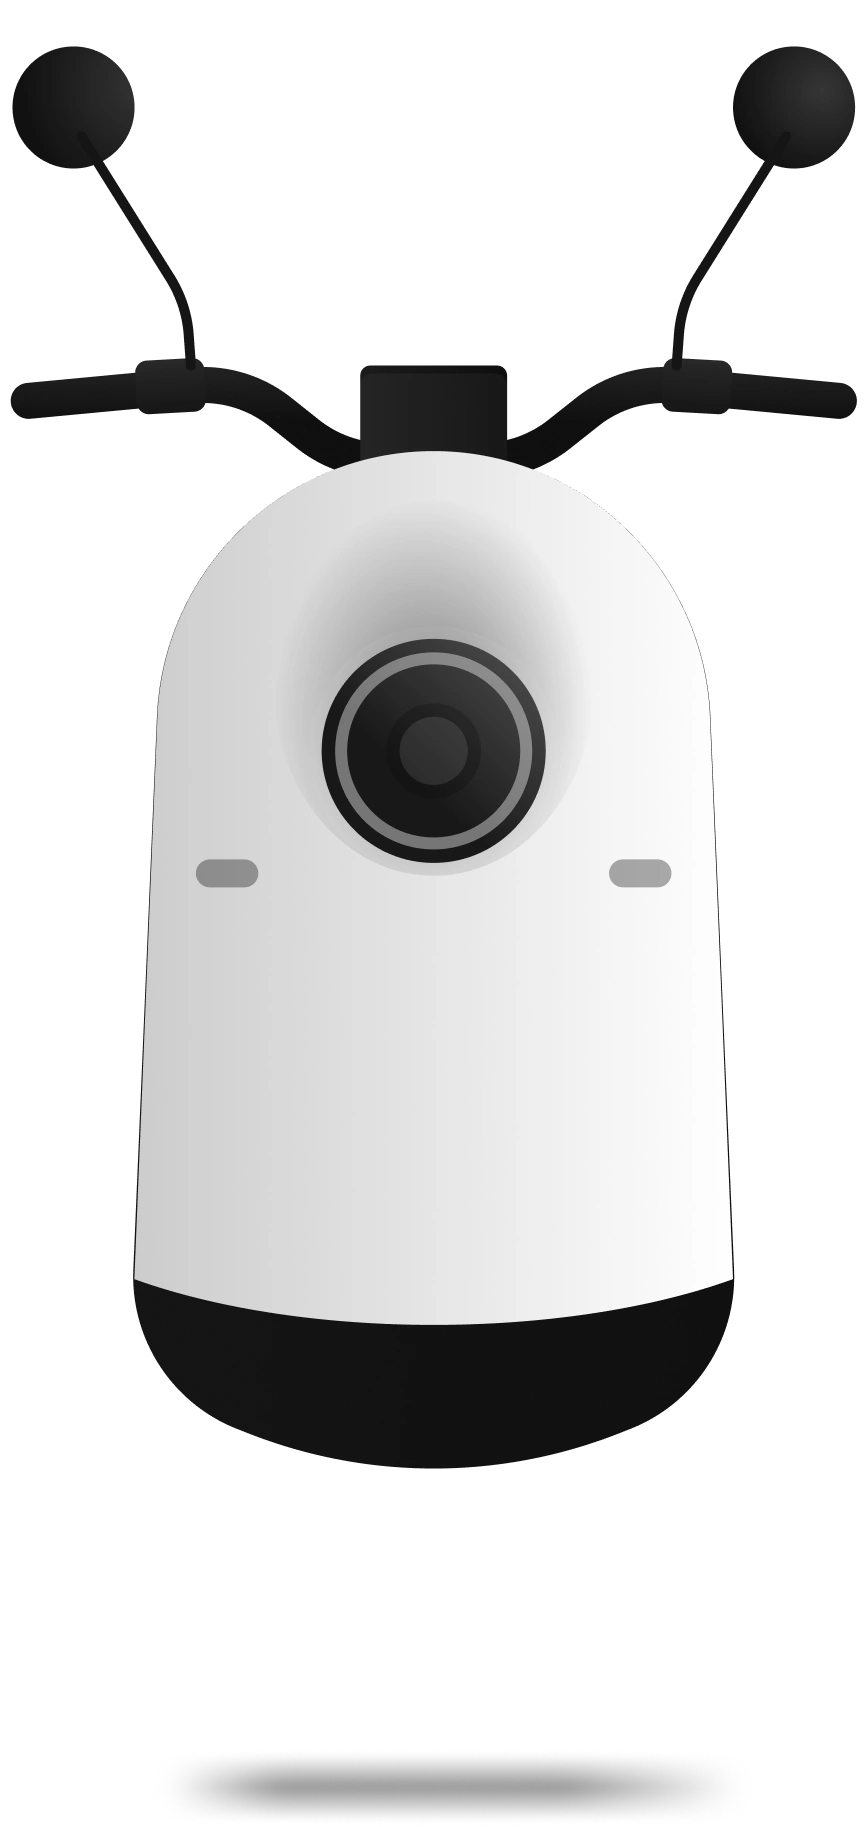
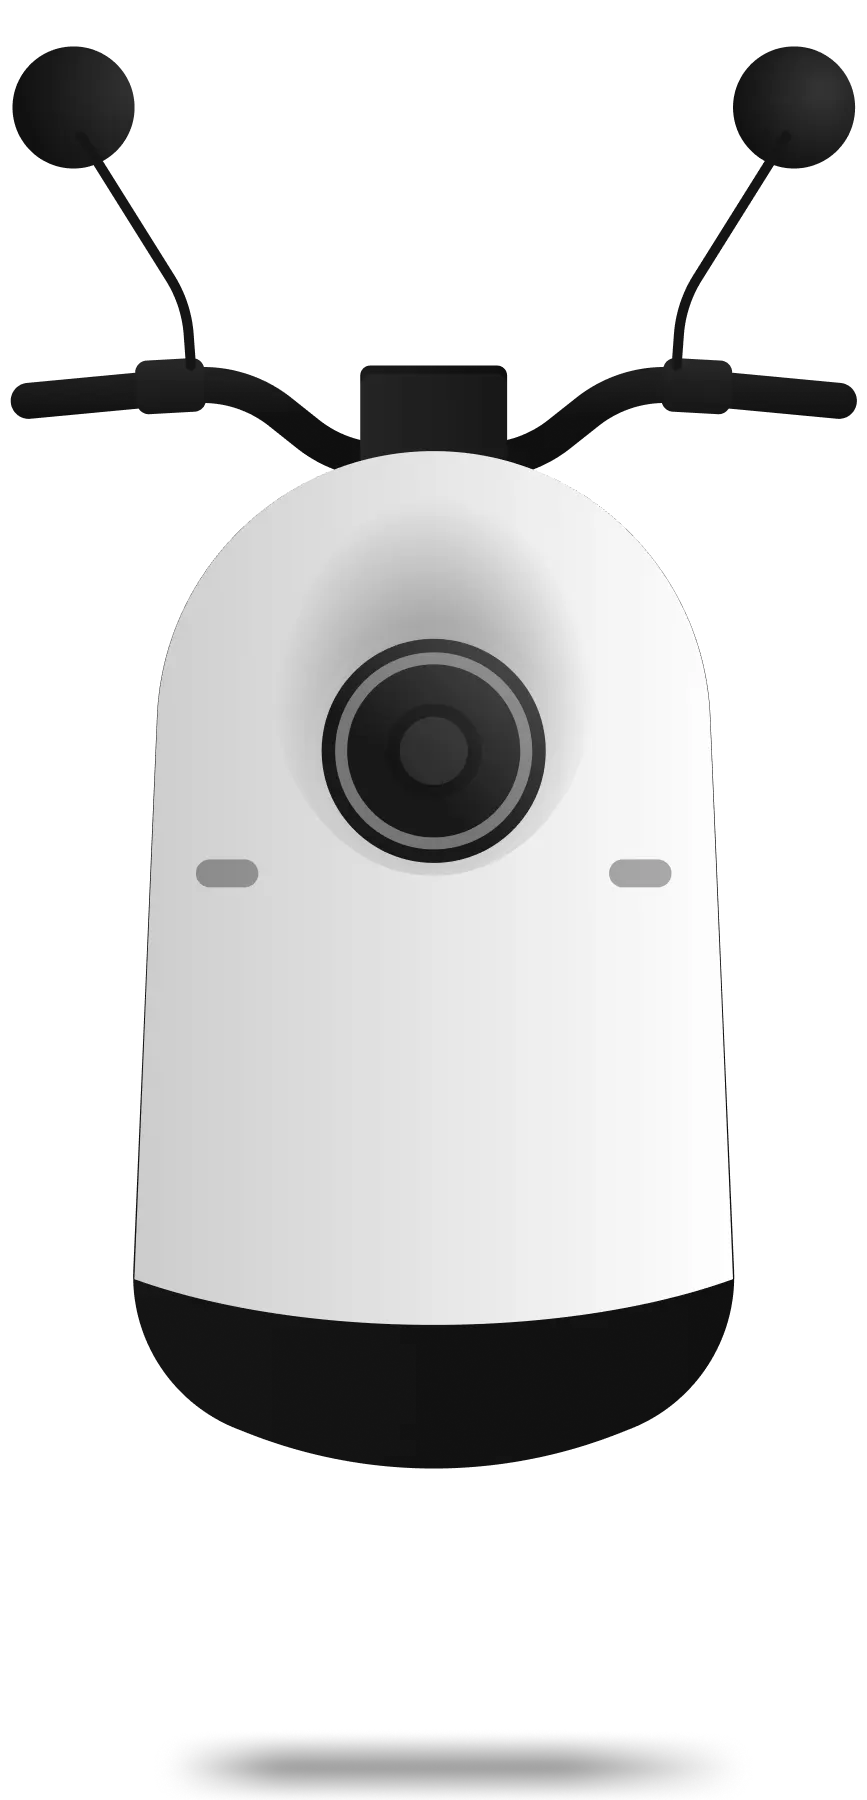
Adding seasonal effect for december

diff --git a/lib/stats/settings_section.dart b/lib/stats/settings_section.dart
@@ -28,6 +28,7 @@ class _SettingsSectionState extends State<SettingsSection> {
   final log = Logger('SettingsSection');
   bool biometrics = false;
   bool autoUnlock = false;
+  bool seasonal = true;
   ScooterKeylessDistance autoUnlockDistance = ScooterKeylessDistance.regular;
   bool openSeatOnUnlock = false;
   bool hazardLocking = false;
@@ -44,6 +45,7 @@ class _SettingsSectionState extends State<SettingsSection> {
       openSeatOnUnlock = widget.service.openSeatOnUnlock;
       hazardLocking = widget.service.hazardLocking;
       osmConsent = prefs.getBool("osmConsent") ?? true;
+      seasonal = prefs.getBool("seasonal") ?? true;
     });
   }
 
@@ -53,22 +55,10 @@ class _SettingsSectionState extends State<SettingsSection> {
     getInitialSettings();
   }
 
-  @override
-  Widget build(BuildContext context) {
-    return ListView.separated(
-      padding: const EdgeInsets.symmetric(vertical: 16),
-      shrinkWrap: true,
-      itemCount: (autoUnlock ? 16 : 15),
-      separatorBuilder: (context, index) => Divider(
-        indent: 16,
-        endIndent: 16,
-        height: 24,
-        color: Theme.of(context).colorScheme.onSurface.withOpacity(0.1),
-      ),
-      itemBuilder: (context, index) => [
+  List<Widget> settingsItems() => [
         Header(
             FlutterI18n.translate(context, "stats_settings_section_scooter")),
-        SwitchListTile(
+        SwitchListTile.adaptive(
           secondary: const Icon(Icons.key_outlined),
           title: Text(FlutterI18n.translate(context, "settings_auto_unlock")),
           subtitle: Text(FlutterI18n.translate(
@@ -105,7 +95,7 @@ class _SettingsSectionState extends State<SettingsSection> {
               },
             ),
           ),
-        SwitchListTile(
+        SwitchListTile.adaptive(
           secondary: const Icon(Icons.work_outline),
           title: Text(
               FlutterI18n.translate(context, "settings_open_seat_on_unlock")),
@@ -119,7 +109,7 @@ class _SettingsSectionState extends State<SettingsSection> {
             });
           },
         ),
-        SwitchListTile(
+        SwitchListTile.adaptive(
           secondary: const Icon(Icons.code_rounded),
           title:
               Text(FlutterI18n.translate(context, "settings_hazard_locking")),
@@ -139,7 +129,7 @@ class _SettingsSectionState extends State<SettingsSection> {
             builder: (context, biometricsOptionsSnap) {
               if (biometricsOptionsSnap.hasData &&
                   biometricsOptionsSnap.data!.isNotEmpty) {
-                return SwitchListTile(
+                return SwitchListTile.adaptive(
                   secondary: const Icon(Icons.lock_outlined),
                   title: Text(
                       FlutterI18n.translate(context, "settings_biometrics")),
@@ -254,7 +244,7 @@ class _SettingsSectionState extends State<SettingsSection> {
             },
           ),
         ),
-        SwitchListTile(
+        SwitchListTile.adaptive(
           secondary: const Icon(Icons.pin_drop_outlined),
           title: Text(FlutterI18n.translate(context, "settings_osm_consent")),
           subtitle: Text(FlutterI18n.translate(
@@ -268,6 +258,21 @@ class _SettingsSectionState extends State<SettingsSection> {
             });
           },
         ),
+        if (DateTime.now().month == 11 ||
+            DateTime.now().month == 12) // All seasonal months
+          SwitchListTile.adaptive(
+              secondary: const Icon(Icons.star),
+              title: Text(FlutterI18n.translate(context, "settings_seasonal")),
+              subtitle:
+                  Text(FlutterI18n.translate(context, "settings_color_info")),
+              value: seasonal,
+              onChanged: (value) async {
+                SharedPreferences prefs = await SharedPreferences.getInstance();
+                prefs.setBool("seasonal", value);
+                setState(() {
+                  seasonal = value;
+                });
+              }),
         Header(FlutterI18n.translate(context, "stats_settings_section_about")),
         ListTile(
           leading: const Icon(Icons.help_outline),
@@ -329,7 +334,21 @@ class _SettingsSectionState extends State<SettingsSection> {
                 },
               );
             }),
-      ][index],
+      ];
+
+  @override
+  Widget build(BuildContext context) {
+    return ListView.separated(
+      padding: const EdgeInsets.symmetric(vertical: 16),
+      shrinkWrap: true,
+      itemCount: (autoUnlock ? 16 : 15),
+      separatorBuilder: (context, index) => Divider(
+        indent: 16,
+        endIndent: 16,
+        height: 24,
+        color: Theme.of(context).colorScheme.onSurface.withOpacity(0.1),
+      ),
+      itemBuilder: (context, index) => settingsItems()[index],
     );
   }
 }

diff --git a/lib/helper_widgets.dart/snowfall.dart b/lib/helper_widgets.dart/snowfall.dart
@@ -1,0 +1,111 @@
+import 'package:flutter/material.dart';
+import 'dart:math';
+
+class SnowfallBackground extends StatefulWidget {
+  final Color backgroundColor;
+  final Color snowflakeColor;
+
+  const SnowfallBackground(
+      {super.key, required this.backgroundColor, required this.snowflakeColor});
+
+  @override
+  SnowfallBackgroundState createState() => SnowfallBackgroundState();
+}
+
+class SnowfallBackgroundState extends State<SnowfallBackground>
+    with SingleTickerProviderStateMixin {
+  late AnimationController _controller;
+  List<Snowflake>? _snowflakes; // Make _snowflakes nullable.
+  final int _snowflakeCount = 100;
+
+  @override
+  void initState() {
+    super.initState();
+    _controller =
+        AnimationController(vsync: this, duration: const Duration(seconds: 20))
+          ..repeat();
+
+    _controller.addListener(() {
+      setState(() {
+        _snowflakes?.forEach((flake) => flake.updatePosition());
+      });
+    });
+  }
+
+  void _initializeSnowflakes(Size size) {
+    _snowflakes = List.generate(
+      _snowflakeCount,
+      (_) => Snowflake(size.width, size.height),
+    );
+  }
+
+  @override
+  void dispose() {
+    _controller.dispose();
+    super.dispose();
+  }
+
+  @override
+  Widget build(BuildContext context) {
+    // Initialize snowflakes if they haven't been created yet.
+    if (_snowflakes == null) {
+      _initializeSnowflakes(MediaQuery.of(context).size);
+    }
+
+    return Container(
+      color: widget.backgroundColor,
+      child: CustomPaint(
+        size: MediaQuery.of(context).size,
+        painter: SnowPainter(_snowflakes ?? [], widget.snowflakeColor),
+      ),
+    );
+  }
+}
+
+class Snowflake {
+  late double x, y, speed, radius;
+
+  Snowflake(double maxWidth, double maxHeight) {
+    final random = Random();
+    x = random.nextDouble() *
+        maxWidth; // Now using the full width of the screen.
+    y = random.nextDouble() *
+        maxHeight; // Now using the full height of the screen.
+    speed = 0.2 + random.nextDouble() * 0.8;
+    radius = 1 + random.nextDouble() * 3;
+  }
+
+  void updatePosition() {
+    y += speed;
+  }
+}
+
+class SnowPainter extends CustomPainter {
+  final List<Snowflake> snowflakes;
+  final Color snowflakeColor;
+
+  SnowPainter(this.snowflakes, this.snowflakeColor);
+
+  @override
+  void paint(Canvas canvas, Size size) {
+    final paint = Paint()..color = snowflakeColor.withOpacity(0.15);
+
+    for (var flake in snowflakes) {
+      // Ensure positions are constrained to the current canvas size.
+      double flakeX = flake.x % size.width;
+      double flakeY = flake.y % size.height;
+
+      if (flakeY > size.height) {
+        // Reset flake to the top when it goes beyond screen height.
+        flakeY = 0;
+        flake.x =
+            Random().nextDouble() * size.width; // Randomize X position again.
+      }
+
+      canvas.drawCircle(Offset(flakeX, flakeY), flake.radius, paint);
+    }
+  }
+
+  @override
+  bool shouldRepaint(covariant CustomPainter oldDelegate) => true;
+}

diff --git a/lib/home_screen.dart b/lib/home_screen.dart
@@ -17,6 +17,7 @@ import '../scooter_service.dart';
 import '../domain/scooter_state.dart';
 import '../scooter_visual.dart';
 import '../stats/stats_screen.dart';
+import 'helper_widgets.dart/snowfall.dart';
 
 class HomeScreen extends StatefulWidget {
   final ScooterService scooterService;
@@ -37,6 +38,7 @@ class _HomeScreenState extends State<HomeScreen> {
   bool _connected = false;
   bool _scanning = false;
   bool _hazards = false;
+  bool _snowing = false;
   bool? _seatClosed;
   bool? _handlebarsLocked;
   int? _primarySOC;
@@ -97,6 +99,22 @@ class _HomeScreenState extends State<HomeScreen> {
         _secondarySOC = soc;
       });
     });
+    _startSeasonal();
+  }
+
+  Future<void> _startSeasonal() async {
+    SharedPreferences prefs = await SharedPreferences.getInstance();
+    if (prefs.getBool("seasonal") ?? true) {
+      switch (DateTime.now().month) {
+        case 11:
+        case 12:
+          // December, snow season!
+          setState(() {
+            _snowing = true;
+          });
+        // who knows what else might be in the future?
+      }
+    }
   }
 
   void _flashHazards(int times) async {
@@ -133,6 +151,13 @@ class _HomeScreenState extends State<HomeScreen> {
                   scanning: _scanning,
                   connected: _connected,
                   scooterState: _scooterState),
+              if (_snowing)
+                SnowfallBackground(
+                  backgroundColor: Colors.transparent,
+                  snowflakeColor: context.isDarkMode
+                      ? Colors.white.withOpacity(0.15)
+                      : Colors.black.withOpacity(0.05),
+                ),
               SafeArea(
                 child: Padding(
                   padding: const EdgeInsets.symmetric(
@@ -282,11 +307,13 @@ class _HomeScreenState extends State<HomeScreen> {
                               stream: widget.scooterService.scooterColor,
                               builder: (context, colorSnap) {
                                 return ScooterVisual(
-                                    color: colorSnap.data ?? 1,
-                                    state: _scooterState,
-                                    scanning: _scanning,
-                                    blinkerLeft: _hazards,
-                                    blinkerRight: _hazards);
+                                  color: colorSnap.data ?? 1,
+                                  state: _scooterState,
+                                  scanning: _scanning,
+                                  blinkerLeft: _hazards,
+                                  blinkerRight: _hazards,
+                                  winter: _snowing,
+                                );
                               })),
                       const SizedBox(height: 16),
                       Row(

diff --git a/lib/scooter_visual.dart b/lib/scooter_visual.dart
@@ -12,12 +12,14 @@ class ScooterVisual extends StatelessWidget {
   final bool blinkerLeft;
   final bool blinkerRight;
   final int? color;
+  final bool winter;
 
   const ScooterVisual(
       {required this.state,
       required this.scanning,
       required this.blinkerLeft,
       required this.blinkerRight,
+      this.winter = false,
       this.color,
       super.key});
 
@@ -63,6 +65,21 @@ class ScooterVisual extends StatelessWidget {
                         ? CrossFadeState.showFirst
                         : CrossFadeState.showSecond,
                   ),
+                  if (winter && state != ScooterState.disconnected)
+                    AnimatedCrossFade(
+                      duration: const Duration(milliseconds: 500),
+                      firstChild: const Image(
+                        image: AssetImage(
+                            "images/scooter/seasonal/winter_on.webp"),
+                      ),
+                      secondChild: const Image(
+                        image: AssetImage(
+                            "images/scooter/seasonal/winter_off.webp"),
+                      ),
+                      crossFadeState: state != null && state!.isOn
+                          ? CrossFadeState.showFirst
+                          : CrossFadeState.showSecond,
+                    ),
                   AnimatedOpacity(
                     opacity: state != null && state!.isOn ? 1.0 : 0.0,
                     duration: const Duration(milliseconds: 1000),

diff --git a/lib/scooter_service.dart b/lib/scooter_service.dart
@@ -163,12 +163,14 @@ class ScooterService {
     _primaryCyclesController.add(190);
     _secondaryCyclesController.add(75);
     _connectedController.add(true);
-    _stateController.add(ScooterState.standby);
+    _stateController.add(ScooterState.parked);
     _seatClosedController.add(true);
     _handlebarController.add(false);
     _cbbChargingController.add(false);
     _lastPingController.add(DateTime.now());
     _scooterNameController.add("Demo Scooter");
+    _connectedController.close();
+    _stateController.close();
   }
 
   // STATUS STREAMS
